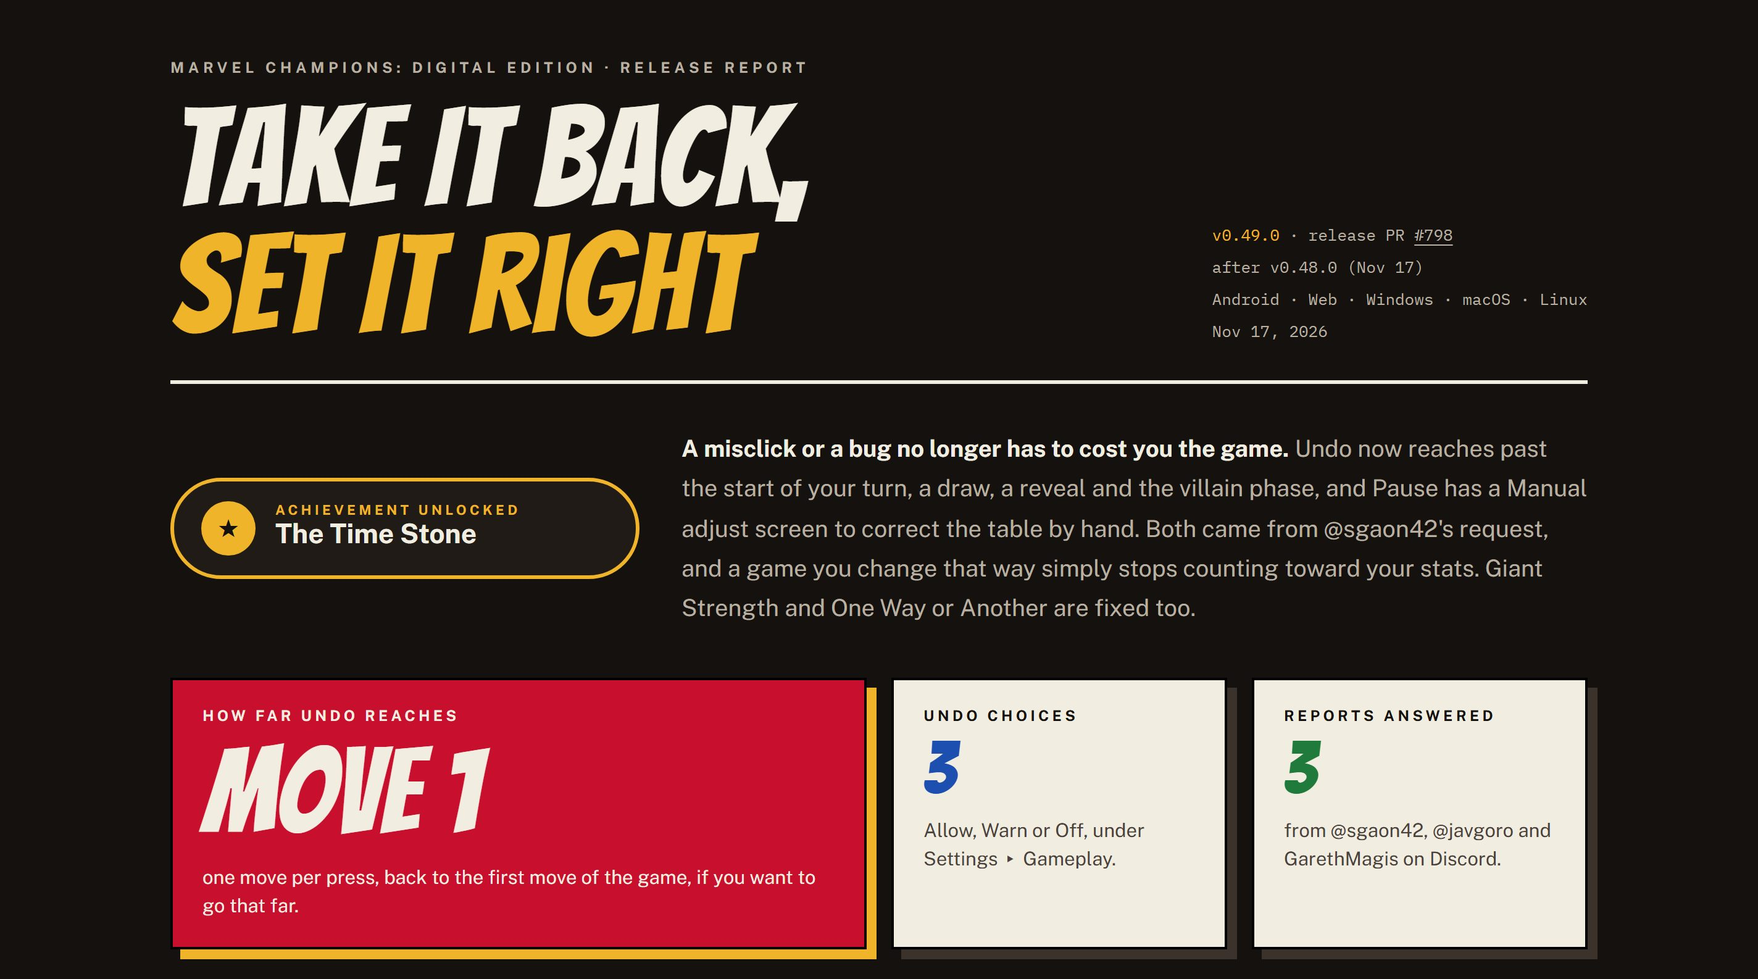
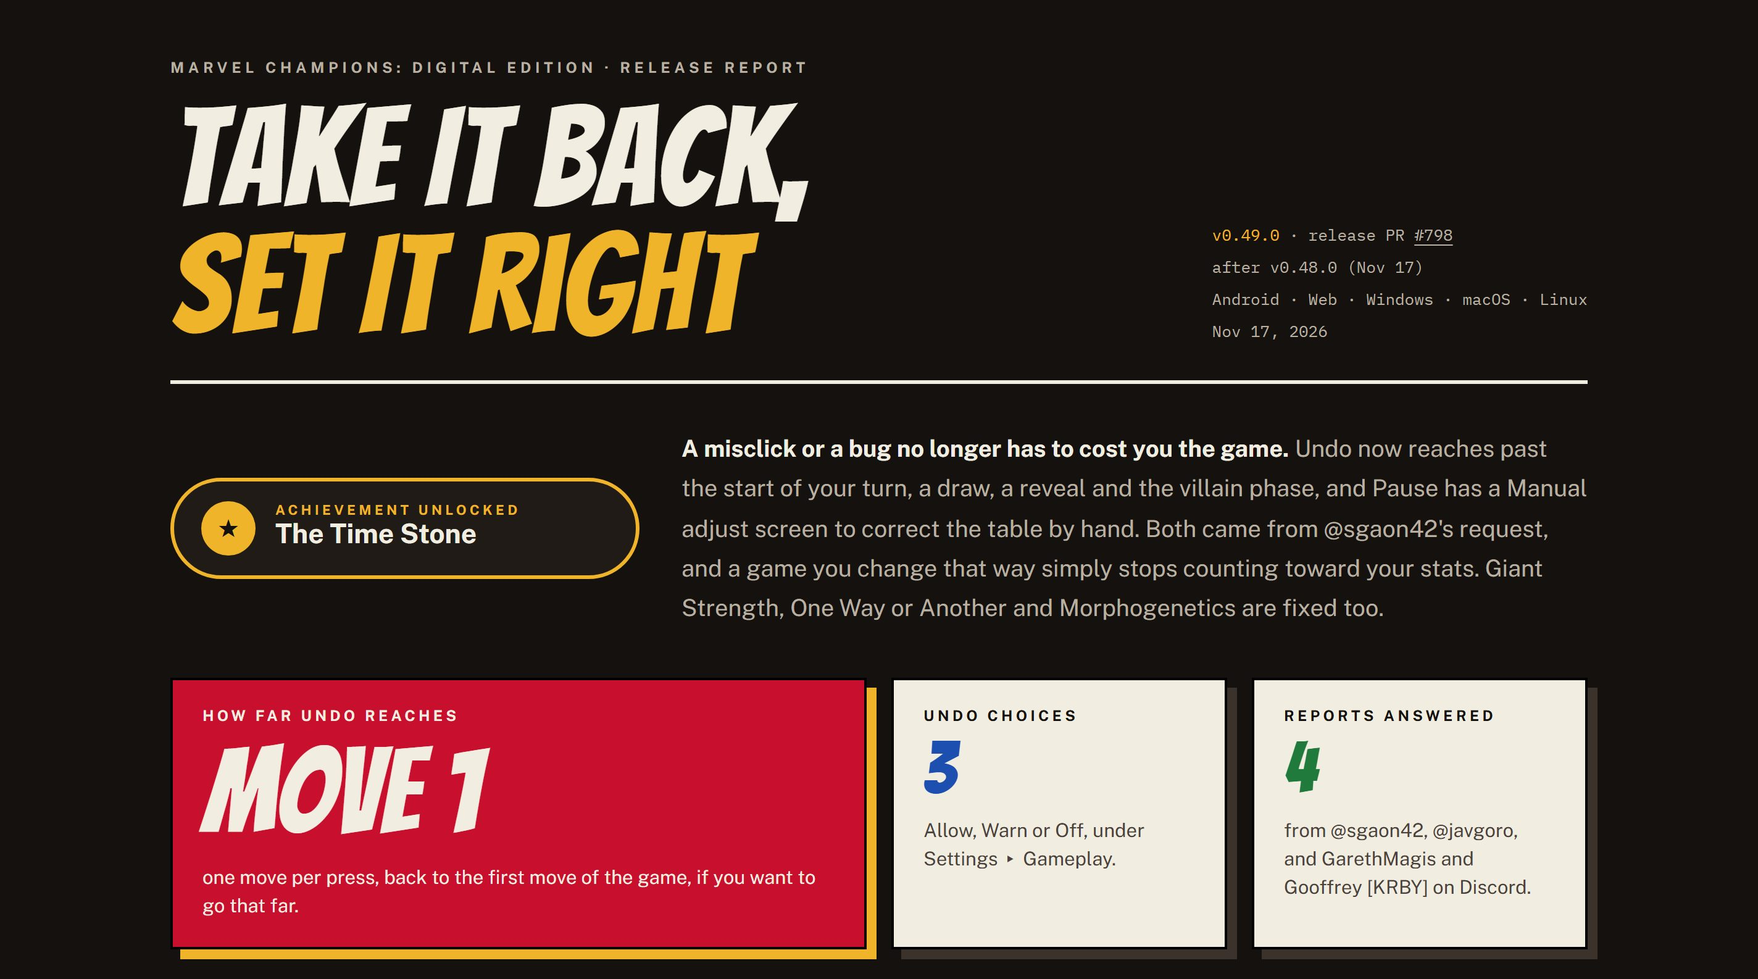
v0.49.0 report: add Morphogenetics (#824) and Public Support (#830), recount Code shipped

Changed region(s): [[0.4375, 0.6179, 0.7812, 0.6488], [0.7188, 0.8651, 0.875, 0.9269], [0.7188, 0.7415, 0.75, 0.8033]]

diff --git a/packages/client/public/releases/v0.49.0/index.html b/packages/client/public/releases/v0.49.0/index.html
@@ -6,7 +6,7 @@
     <title>v0.49.0 · Marvel Champions: Digital Edition</title>
     <meta
       name="description"
-      content="What's new in v0.49.0 of the fan-made Marvel Champions digital game: Undo reaches past the start of your turn, a draw or a reveal, Pause has a Manual adjust screen to correct the table by hand, and Giant Strength and One Way or Another are fixed."
+      content="What's new in v0.49.0 of the fan-made Marvel Champions digital game: Undo reaches past the start of your turn, a draw or a reveal, Pause has a Manual adjust screen to correct the table by hand, and Giant Strength, One Way or Another and Morphogenetics are fixed."
     />
     <meta property="og:title" content="Marvel Champions: Digital Edition v0.49.0" />
     <meta
@@ -610,7 +610,7 @@
           <b>A misclick or a bug no longer has to cost you the game.</b> Undo now reaches past the start of your turn, a
           draw, a reveal and the villain phase, and Pause has a Manual adjust screen to correct the table by hand. Both
           came from @sgaon42's request, and a game you change that way simply stops counting toward your stats. Giant
-          Strength and One Way or Another are fixed too.
+          Strength, One Way or Another and Morphogenetics are fixed too.
         </p>
       </section>
 
@@ -627,8 +627,8 @@
         </div>
         <div class="tile">
           <h4>Reports answered</h4>
-          <div class="n c-green">3</div>
-          <p>from @sgaon42, @javgoro and GarethMagis on Discord.</p>
+          <div class="n c-green">4</div>
+          <p>from @sgaon42, @javgoro, and GarethMagis and Gooffrey [KRBY] on Discord.</p>
         </div>
       </section>
 
@@ -788,7 +788,7 @@
       <!-- ============ YOU ASKED ============ -->
       <div class="band">
         <h2>You asked, we fixed</h2>
-        <div class="lab">Issues #794, #795 · PRs #796, #797</div>
+        <div class="lab">Issues #794, #795, #804 · PRs #796, #797, #824</div>
       </div>
       <div class="cards">
         <div class="paper">
@@ -813,6 +813,37 @@
           </p>
           <div class="src">Ruling, October 21, 2024: a search that finds nothing means the cost wasn't paid.</div>
         </div>
+        <div class="paper" style="grid-column: 1 / -1">
+          <div class="eb">#804 · reported by Gooffrey [KRBY] on Discord</div>
+          <h3>Morphogenetics gives you the event back, for real</h3>
+          <p>
+            Ms. Marvel thwarts the last threat, plays Turn the Tide and returns it to her hand with Morphogenetics. The
+            game wouldn't offer Turn the Tide again for that same thwart.
+          </p>
+          <p>
+            Now an event she returns to hand is <b>offered again off the same trigger</b>, so a second Turn the Tide
+            deals another 3, and Wiggle Room can answer the same attack twice. A card in play that used its ability is
+            still offered only once.
+          </p>
+          <div class="src">
+            FFG ruling (Ms. Marvel): a returned Wiggle Room can be played again "the same as if you had 2 copies".
+          </div>
+        </div>
+      </div>
+
+      <!-- ============ ALSO ============ -->
+      <div class="band">
+        <h2>Also in v0.49.0</h2>
+        <div class="lab">Issue #829 · PR #830</div>
+      </div>
+      <div class="box">
+        <ul class="ck">
+          <li>
+            Kingpin's <b>Public Support (High)</b> replaces a boost card only when it can remove the full 1 per hero
+            support counters. FFG's rules specialist answered by email that the whole effect has to resolve, so with
+            fewer counters Kingpin is given the boost card and the counters stay.
+          </li>
+        </ul>
       </div>
 
       <!-- ============ THANKS ============ -->
@@ -839,6 +870,12 @@
             <h3>@javgoro</h3>
             <p>Reported One Way or Another drawing after a search that found nothing, <b>#795</b>.</p>
           </div>
+          <div class="person wide">
+            <h3>Gooffrey [KRBY]</h3>
+            <p>
+              Reported on Discord that Morphogenetics couldn't replay Turn the Tide off the same thwart, <b>#804</b>.
+            </p>
+          </div>
         </div>
       </section>
 
@@ -850,22 +887,22 @@
       <section class="stats" aria-label="Code shipped since v0.48.0">
         <div class="tile">
           <h4>Pull requests</h4>
-          <div class="n">6</div>
+          <div class="n">8</div>
           <p>merged into main.</p>
         </div>
         <div class="tile">
           <h4>Files changed</h4>
-          <div class="n">118</div>
+          <div class="n">131</div>
           <p>across the engine, the cards, the client and this report.</p>
         </div>
         <div class="tile">
           <h4>Lines added</h4>
-          <div class="n c-green">3,967</div>
+          <div class="n c-green">4,655</div>
           <p>most of them Undo, Manual adjust and their tests.</p>
         </div>
         <div class="tile">
           <h4>Lines removed</h4>
-          <div class="n c-red">153</div>
+          <div class="n c-red">191</div>
           <p>code the new Undo and adjust paths replaced.</p>
         </div>
       </section>

diff --git a/docs/screenshots/releases/v0.49.0/github-release-body.md b/docs/screenshots/releases/v0.49.0/github-release-body.md
@@ -1,8 +1,8 @@
 ## Take It Back, Set It Right
 
-A misclick or a bug no longer has to cost you the game. Undo now reaches past the start of your turn, a draw, a reveal and the villain phase, one move per press, and Settings ▸ Gameplay ▸ Undo past your turn picks Allow, Warn or Off. Pause ▸ Manual adjust corrects the table by hand: damage, threat, counters, statuses, exhausting and readying, discards, a draw and your hero's form. Both came from @sgaon42's request (#791, #793), and a game you change that way stops counting toward stats and achievements. Giant Strength now waits for Giant hero form, thanks to GarethMagis on Discord (#794), and One Way or Another draws only when its search finds a side scheme, thanks to @javgoro's report (#795). Thank you for playing!
+A misclick or a bug no longer has to cost you the game. Undo now reaches past the start of your turn, a draw, a reveal and the villain phase, one move per press, and Settings ▸ Gameplay ▸ Undo past your turn picks Allow, Warn or Off. Pause ▸ Manual adjust corrects the table by hand: damage, threat, counters, statuses, exhausting and readying, discards, a draw and your hero's form. Both came from @sgaon42's request (#791, #793), and a game you change that way stops counting toward stats and achievements. Giant Strength now waits for Giant hero form, thanks to GarethMagis on Discord (#794), One Way or Another draws only when its search finds a side scheme, thanks to @javgoro's report (#795), and an event Ms. Marvel's Morphogenetics returns to hand can be played again off the same trigger, thanks to Gooffrey [KRBY] on Discord (#804). Kingpin's Public Support (High) now needs its full 1 per hero counters, as FFG ruled (#829). Thank you for playing!
 
-**[Read the full v0.49.0 report on the site ↗](https://champions-digital-game.com/releases/v0.49.0/)**: Undo past your turn and its three settings, Manual adjust, how adjusted games stay out of your stats, the fixes and the thank-you wall.
+**[Read the full v0.49.0 report on the site ↗](https://champions-digital-game.com/releases/v0.49.0/)**: Undo past your turn and its three settings, Manual adjust, how adjusted games stay out of your stats, the fixes, Public Support's ruling and the thank-you wall.
 
 **[Lee el informe completo en español ↗](https://champions-digital-game.com/releases/v0.49.0/index.es.html)**
 
@@ -14,11 +14,13 @@ A misclick or a bug no longer has to cost you the game. Undo now reaches past th
 
 ![Fair stats, either way: Pause marks an adjusted game, and the log names each correction](https://raw.githubusercontent.com/quincarter/marvel-champions-digital-game/d8079cd925f9496020faba5e69a3075585067285/docs/screenshots/releases/v0.49.0/v0-49-0-release-04-fair-stats-either-way.jpg)
 
-![You asked, we fixed: Giant Strength waits for Giant form, reported by GarethMagis, and One Way or Another needs a side scheme, reported by @javgoro](https://raw.githubusercontent.com/quincarter/marvel-champions-digital-game/d8079cd925f9496020faba5e69a3075585067285/docs/screenshots/releases/v0.49.0/v0-49-0-release-05-you-asked-we-fixed.jpg)
+![You asked, we fixed: Giant Strength waits for Giant form, reported by GarethMagis, One Way or Another needs a side scheme, reported by @javgoro, and Morphogenetics replays Turn the Tide, reported by Gooffrey [KRBY]](https://raw.githubusercontent.com/quincarter/marvel-champions-digital-game/d8079cd925f9496020faba5e69a3075585067285/docs/screenshots/releases/v0.49.0/v0-49-0-release-05-you-asked-we-fixed.jpg)
 
-![Thank you to @sgaon42, GarethMagis and @javgoro](https://raw.githubusercontent.com/quincarter/marvel-champions-digital-game/d8079cd925f9496020faba5e69a3075585067285/docs/screenshots/releases/v0.49.0/v0-49-0-release-06-thank-you.jpg)
+![Also in v0.49.0: Public Support (High) needs its full 1 per hero counters, as FFG ruled](https://raw.githubusercontent.com/quincarter/marvel-champions-digital-game/d8079cd925f9496020faba5e69a3075585067285/docs/screenshots/releases/v0.49.0/v0-49-0-release-06-also-in-v0-49-0.jpg)
 
-![Code shipped since v0.48.0](https://raw.githubusercontent.com/quincarter/marvel-champions-digital-game/d8079cd925f9496020faba5e69a3075585067285/docs/screenshots/releases/v0.49.0/v0-49-0-release-07-code-shipped.jpg)
+![Thank you to @sgaon42, GarethMagis, @javgoro and Gooffrey [KRBY]](https://raw.githubusercontent.com/quincarter/marvel-champions-digital-game/d8079cd925f9496020faba5e69a3075585067285/docs/screenshots/releases/v0.49.0/v0-49-0-release-07-thank-you.jpg)
+
+![Code shipped since v0.48.0](https://raw.githubusercontent.com/quincarter/marvel-champions-digital-game/d8079cd925f9496020faba5e69a3075585067285/docs/screenshots/releases/v0.49.0/v0-49-0-release-08-code-shipped.jpg)
 
 ---
 
@@ -36,6 +38,8 @@ A misclick or a bug no longer has to cost you the game. Undo now reaches past th
 - Ant-Man's Giant Strength is only offered after changing to Giant hero form, and Ant-Man's Helmet only offers the response that matches the new form (#794).
 - One Way or Another no longer draws 3 cards when the search finds no side scheme in the encounter deck, and takes the side scheme it finds (#795).
 - The release history e2e specs pick the newest release and report instead of v0.40.0, so a new release no longer breaks them (#802).
+- Ms. Marvel's Morphogenetics: an event she returns to hand (Turn the Tide, Wiggle Room) can be played again off the same trigger, as FFG ruled (#804)
+- Kingpin's Public Support (High) now replaces a boost card only when it can remove the full 1 per hero support counters, as FFG ruled (#829).
 
 ### Engine
 
@@ -46,3 +50,4 @@ A misclick or a bug no longer has to cost you the game. Undo now reaches past th
 - @javgoro reported #795.
 - @sgaon42 reported #791.
 - GarethMagis reported #794 on Discord.
+- Gooffrey [KRBY] reported #804 on Discord.

diff --git a/docs/releases/es/v0.49.0.md b/docs/releases/es/v0.49.0.md
@@ -1,6 +1,6 @@
 ## Deshazlo, arréglalo
 
-Un clic equivocado o un error ya no tienen por qué costarte la partida. Undo ahora llega más allá del inicio de tu turno, un robo, una revelación y la fase de villano, una jugada por pulsación, y Settings ▸ Gameplay ▸ Undo past your turn elige entre Allow, Warn u Off. Pause ▸ Manual adjust corrige la mesa a mano: daño, amenaza, contadores, estados, agotar y preparar, descartes, un robo y la forma de tu héroe. Las dos funciones nacen de la petición de @sgaon42 (#791, #793), y una partida que cambias así deja de contar para las estadísticas y los logros. Giant Strength ahora espera a la forma de héroe Giant, gracias a GarethMagis en Discord (#794), y One Way or Another solo roba cuando su búsqueda encuentra un plan secundario, gracias al reporte de @javgoro (#795). ¡Gracias por jugar!
+Un clic equivocado o un error ya no tienen por qué costarte la partida. Undo ahora llega más allá del inicio de tu turno, un robo, una revelación y la fase de villano, una jugada por pulsación, y Settings ▸ Gameplay ▸ Undo past your turn elige entre Allow, Warn u Off. Pause ▸ Manual adjust corrige la mesa a mano: daño, amenaza, contadores, estados, agotar y preparar, descartes, un robo y la forma de tu héroe. Las dos funciones nacen de la petición de @sgaon42 (#791, #793), y una partida que cambias así deja de contar para las estadísticas y los logros. Giant Strength ahora espera a la forma de héroe Giant, gracias a GarethMagis en Discord (#794), One Way or Another solo roba cuando su búsqueda encuentra un plan secundario, gracias al reporte de @javgoro (#795), y un evento que Morphogenetics de Ms. Marvel devuelve a la mano puede jugarse otra vez con el mismo disparador, gracias a Gooffrey [KRBY] en Discord (#804). Public Support (High) de Kingpin ahora necesita todos sus contadores, 1 por héroe, como resolvió FFG (#829). ¡Gracias por jugar!
 
 ![Los números: Undo llega hasta la jugada 1, tres opciones de Undo y tres reportes atendidos](https://raw.githubusercontent.com/quincarter/marvel-champions-digital-game/d8079cd925f9496020faba5e69a3075585067285/docs/screenshots/releases/v0.49.0/v0-49-0-release-01-the-numbers.jpg)
 
@@ -10,11 +10,13 @@ Un clic equivocado o un error ya no tienen por qué costarte la partida. Undo ah
 
 ![Estadísticas justas, pase lo que pase: Pause marca una partida ajustada, y el registro nombra cada corrección](https://raw.githubusercontent.com/quincarter/marvel-champions-digital-game/d8079cd925f9496020faba5e69a3075585067285/docs/screenshots/releases/v0.49.0/v0-49-0-release-04-fair-stats-either-way.jpg)
 
-![Lo pediste, lo corregimos: Giant Strength espera a la forma Giant, reportado por GarethMagis, y One Way or Another necesita un plan secundario, reportado por @javgoro](https://raw.githubusercontent.com/quincarter/marvel-champions-digital-game/d8079cd925f9496020faba5e69a3075585067285/docs/screenshots/releases/v0.49.0/v0-49-0-release-05-you-asked-we-fixed.jpg)
+![Lo pediste, lo corregimos: Giant Strength espera a la forma Giant, reportado por GarethMagis, One Way or Another necesita un plan secundario, reportado por @javgoro, y Morphogenetics vuelve a jugar Turn the Tide, reportado por Gooffrey [KRBY]](https://raw.githubusercontent.com/quincarter/marvel-champions-digital-game/d8079cd925f9496020faba5e69a3075585067285/docs/screenshots/releases/v0.49.0/v0-49-0-release-05-you-asked-we-fixed.jpg)
 
-![Gracias a @sgaon42, GarethMagis y @javgoro](https://raw.githubusercontent.com/quincarter/marvel-champions-digital-game/d8079cd925f9496020faba5e69a3075585067285/docs/screenshots/releases/v0.49.0/v0-49-0-release-06-thank-you.jpg)
+![También en v0.49.0: Public Support (High) necesita todos sus contadores, 1 por héroe, como resolvió FFG](https://raw.githubusercontent.com/quincarter/marvel-champions-digital-game/d8079cd925f9496020faba5e69a3075585067285/docs/screenshots/releases/v0.49.0/v0-49-0-release-06-also-in-v0-49-0.jpg)
 
-![Código publicado desde v0.48.0](https://raw.githubusercontent.com/quincarter/marvel-champions-digital-game/d8079cd925f9496020faba5e69a3075585067285/docs/screenshots/releases/v0.49.0/v0-49-0-release-07-code-shipped.jpg)
+![Gracias a @sgaon42, GarethMagis, @javgoro y Gooffrey [KRBY]](https://raw.githubusercontent.com/quincarter/marvel-champions-digital-game/d8079cd925f9496020faba5e69a3075585067285/docs/screenshots/releases/v0.49.0/v0-49-0-release-07-thank-you.jpg)
+
+![Código publicado desde v0.48.0](https://raw.githubusercontent.com/quincarter/marvel-champions-digital-game/d8079cd925f9496020faba5e69a3075585067285/docs/screenshots/releases/v0.49.0/v0-49-0-release-08-code-shipped.jpg)
 
 ## [v0.49.0] - 2026-11-17
 
@@ -30,6 +32,8 @@ Un clic equivocado o un error ya no tienen por qué costarte la partida. Undo ah
 - Giant Strength de Ant-Man solo se ofrece después de cambiar a la forma de héroe Giant, y Ant-Man's Helmet solo ofrece la respuesta que corresponde a la nueva forma (#794).
 - One Way or Another ya no roba 3 cartas cuando la búsqueda no encuentra ningún plan secundario en el mazo de encuentros, y toma el plan secundario que encuentra (#795).
 - Las pruebas e2e del historial de versiones eligen la versión y el informe más recientes en lugar de v0.40.0, así que una versión nueva ya no las rompe (#802).
+- Morphogenetics de Ms. Marvel: un evento que devuelve a su mano (Turn the Tide, Wiggle Room) puede jugarse otra vez con el mismo disparador, como resolvió FFG (#804)
+- Public Support (High) de Kingpin ahora reemplaza una carta de potenciación solo cuando puede quitar todos los contadores de apoyo, 1 por héroe, como resolvió FFG (#829).
 
 ### Engine
 

diff --git a/docs/screenshots/releases/v0.49.0/release-notes-header.md b/docs/screenshots/releases/v0.49.0/release-notes-header.md
@@ -1,8 +1,8 @@
 ## Take It Back, Set It Right
 
-A misclick or a bug no longer has to cost you the game. Undo now reaches past the start of your turn, a draw, a reveal and the villain phase, one move per press, and Settings ▸ Gameplay ▸ Undo past your turn picks Allow, Warn or Off. Pause ▸ Manual adjust corrects the table by hand: damage, threat, counters, statuses, exhausting and readying, discards, a draw and your hero's form. Both came from @sgaon42's request (#791, #793), and a game you change that way stops counting toward stats and achievements. Giant Strength now waits for Giant hero form, thanks to GarethMagis on Discord (#794), and One Way or Another draws only when its search finds a side scheme, thanks to @javgoro's report (#795). Thank you for playing!
+A misclick or a bug no longer has to cost you the game. Undo now reaches past the start of your turn, a draw, a reveal and the villain phase, one move per press, and Settings ▸ Gameplay ▸ Undo past your turn picks Allow, Warn or Off. Pause ▸ Manual adjust corrects the table by hand: damage, threat, counters, statuses, exhausting and readying, discards, a draw and your hero's form. Both came from @sgaon42's request (#791, #793), and a game you change that way stops counting toward stats and achievements. Giant Strength now waits for Giant hero form, thanks to GarethMagis on Discord (#794), One Way or Another draws only when its search finds a side scheme, thanks to @javgoro's report (#795), and an event Ms. Marvel's Morphogenetics returns to hand can be played again off the same trigger, thanks to Gooffrey [KRBY] on Discord (#804). Kingpin's Public Support (High) now needs its full 1 per hero counters, as FFG ruled (#829). Thank you for playing!
 
-**[Read the full v0.49.0 report on the site ↗](https://champions-digital-game.com/releases/v0.49.0/)**: Undo past your turn and its three settings, Manual adjust, how adjusted games stay out of your stats, the fixes and the thank-you wall.
+**[Read the full v0.49.0 report on the site ↗](https://champions-digital-game.com/releases/v0.49.0/)**: Undo past your turn and its three settings, Manual adjust, how adjusted games stay out of your stats, the fixes, Public Support's ruling and the thank-you wall.
 
 **[Lee el informe completo en español ↗](https://champions-digital-game.com/releases/v0.49.0/index.es.html)**
 
@@ -14,8 +14,10 @@ A misclick or a bug no longer has to cost you the game. Undo now reaches past th
 
 ![Fair stats, either way: Pause marks an adjusted game, and the log names each correction](https://raw.githubusercontent.com/quincarter/marvel-champions-digital-game/d8079cd925f9496020faba5e69a3075585067285/docs/screenshots/releases/v0.49.0/v0-49-0-release-04-fair-stats-either-way.jpg)
 
-![You asked, we fixed: Giant Strength waits for Giant form, reported by GarethMagis, and One Way or Another needs a side scheme, reported by @javgoro](https://raw.githubusercontent.com/quincarter/marvel-champions-digital-game/d8079cd925f9496020faba5e69a3075585067285/docs/screenshots/releases/v0.49.0/v0-49-0-release-05-you-asked-we-fixed.jpg)
+![You asked, we fixed: Giant Strength waits for Giant form, reported by GarethMagis, One Way or Another needs a side scheme, reported by @javgoro, and Morphogenetics replays Turn the Tide, reported by Gooffrey [KRBY]](https://raw.githubusercontent.com/quincarter/marvel-champions-digital-game/d8079cd925f9496020faba5e69a3075585067285/docs/screenshots/releases/v0.49.0/v0-49-0-release-05-you-asked-we-fixed.jpg)
 
-![Thank you to @sgaon42, GarethMagis and @javgoro](https://raw.githubusercontent.com/quincarter/marvel-champions-digital-game/d8079cd925f9496020faba5e69a3075585067285/docs/screenshots/releases/v0.49.0/v0-49-0-release-06-thank-you.jpg)
+![Also in v0.49.0: Public Support (High) needs its full 1 per hero counters, as FFG ruled](https://raw.githubusercontent.com/quincarter/marvel-champions-digital-game/d8079cd925f9496020faba5e69a3075585067285/docs/screenshots/releases/v0.49.0/v0-49-0-release-06-also-in-v0-49-0.jpg)
 
-![Code shipped since v0.48.0](https://raw.githubusercontent.com/quincarter/marvel-champions-digital-game/d8079cd925f9496020faba5e69a3075585067285/docs/screenshots/releases/v0.49.0/v0-49-0-release-07-code-shipped.jpg)
+![Thank you to @sgaon42, GarethMagis, @javgoro and Gooffrey [KRBY]](https://raw.githubusercontent.com/quincarter/marvel-champions-digital-game/d8079cd925f9496020faba5e69a3075585067285/docs/screenshots/releases/v0.49.0/v0-49-0-release-07-thank-you.jpg)
+
+![Code shipped since v0.48.0](https://raw.githubusercontent.com/quincarter/marvel-champions-digital-game/d8079cd925f9496020faba5e69a3075585067285/docs/screenshots/releases/v0.49.0/v0-49-0-release-08-code-shipped.jpg)

diff --git a/docs/screenshots/releases/v0.49.0/discord-post.md b/docs/screenshots/releases/v0.49.0/discord-post.md
@@ -7,6 +7,8 @@ A misclick or a bug no longer has to cost you the game.
 📊 **Fair stats**: a game you adjust or undo that far is marked adjusted and stays out of stats and achievements. It still shows in Past games.
 🐜 **Giant Strength** now waits for Giant hero form, and Ant-Man's Helmet gets the same fix (thanks, GarethMagis!).
 🌌 **One Way or Another** draws only when its search finds a side scheme (thanks, javgoro!).
+🔁 **Morphogenetics**: an event Ms. Marvel returns to hand, like Turn the Tide, can be played again off the same trigger (thanks, Gooffrey [KRBY]!).
+🎩 **Public Support (High)** now needs its full 1 per hero counters to replace a boost card, as FFG ruled.
 
 Both Undo and Manual adjust came from sgaon42's request. Thank you!
 
@@ -22,6 +24,8 @@ Un clic equivocado o un error ya no tienen por qué costarte la partida.
 📊 **Estadísticas justas**: una partida que ajustas o deshaces hasta ahí queda marcada como ajustada y no cuenta para las estadísticas ni los logros. Sigue apareciendo en Past games.
 🐜 **Giant Strength** ahora espera a la forma de héroe Giant, y Ant-Man's Helmet recibe la misma corrección (¡gracias, GarethMagis!).
 🌌 **One Way or Another** solo roba cuando su búsqueda encuentra un plan secundario (¡gracias, javgoro!).
+🔁 **Morphogenetics**: un evento que Ms. Marvel devuelve a la mano, como Turn the Tide, puede jugarse otra vez con el mismo disparador (¡gracias, Gooffrey [KRBY]!).
+🎩 **Public Support (High)** ahora necesita todos sus contadores, 1 por héroe, para reemplazar una carta de potenciación, como resolvió FFG.
 
 Undo y Manual adjust nacen de la petición de sgaon42. ¡Gracias!
 
